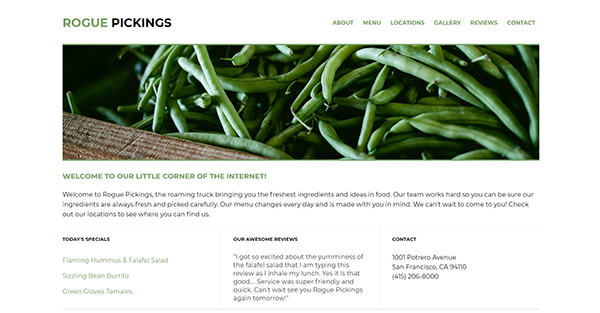
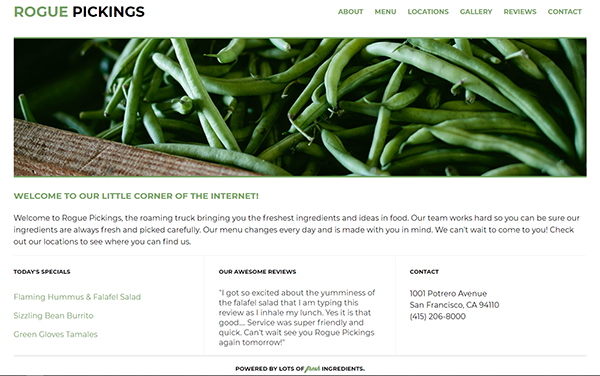
css and index cleaned up

diff --git a/index.html b/index.html
@@ -1,97 +1,102 @@
 <!DOCTYPE html>
-<html>
-<head>
-	<meta charset="UTF-8" />
-	<link rel="stylesheet" type="text/css" href="css/main.css">
-	<link rel="stylesheet" type=text/css href="css/normalize.css">
-<link href="https://fonts.googleapis.com/css?family=Barlow|Mallanna|Roboto+Slab&display=swap" rel="stylesheet"><!-- font-family: 'Barlow', sans-serif;
-font-family: 'Roboto Slab', serif;
-font-family: 'Mallanna', sans-serif; -->
-	<title>Melanie Grigger | Portfolio</title>
-</head>
+<html lang="en">
+    <head>
+	   <meta charset="UTF-8" />
+	   <link rel="stylesheet" type="text/css" href="css/main.css">
+	   <link rel="stylesheet" type=text/css href="css/normalize.css">
+     <link href="https://fonts.googleapis.com/css?family=Roboto+Slab:400,700&display=swap" rel="stylesheet">
+     <link href="https://fonts.googleapis.com/css?family=Lato:300,400,700&display=swap" rel="stylesheet">
+	   <title>Melanie Grigger | Portfolio</title>
+    </head>
 <body>
 <!-- intro -->
- <div class="full-width">
-  <div class="hero-image">
-    <img src="img/hero-image.png">
-      <div class="hero-text">Hi There! I'm Melanie Grigger.
-      <h2 id="opening"> I am a full stack development student and designer based out of Cleveland, Ohio. When I'm not momming or learning I spend my free time...learning. Give me all the knowledge!</h2></div>
+  <header>
+    <div>
+      <div class="full-width">
+      <h1>Hi There! I'm Melanie Grigger.</h1>
+        <h2> I am a full stack development student and designer based out of Cleveland, Ohio. When I'm not momming or learning I spend my free time...learning. Give me all the knowledge!</h2>
+      </div>
     </div>
-  </div>
-
+  </header>
 <!-- Portfolio -->
-<div>
-<h3>My Portfolio</h3>
-</div>
+<main>
+  <section id="portfolio">
 <!-- Jubilee -->
-<section class="full-width">
-	<div class="half-width">
-    <a href="https://github.com/melaniegrigg/jubilee">
-	 <img id="jubileeimg" src="img/jubilee.png" alt="Jubilee website image" />
-	</div>
-	<div class="half-width" id="jubilee">
-		<p>This is my first website project. I completed it in December of 2019 after taking one online course on Skillcrush. It is a mock-up portfolio design that showcases clean and semantic HTML and CSS.</p>
-	 </div>
-</section>
-<!-- Rogue Pickings -->
-<section class="full-width">
-  <div class="half-width">
-    <a href="https://github.com/melaniegrigg/roguepickings">
-    <img id="rogueimg" src="img/rogue-pickings.png" alt="Rogue pickings website image" />
-  </div>
-  <div class="half-width">
-    <p>Rogue Pickings is a mock website that I made for my second-ever website project on Skillcrush. For this lesson, we were given a design comp to pull from. The rest was hand coded from HTML5 and CSS.</p>
-  </div>
-</section>
-<!-- Southcourt -->
-<section class="full-width">
-  <div class="half-width">
-    <img id="southcourtimg" scr="img/southcourt.png" alt="South court website image" />
-  </div>
-  <div class="half-width">
-    <p>My third project is a work in progress website for a local historical neighborhood association. I love being involved in my local community as much as I love writing code and developing beautiful websites.</p>
-  </div>
-</section>
-
-
-<!-- About me -->
-  <section class="full-width">
-    <h3 id="about">About Me</h3>
-    <div class="half-width">
-	   <p>I am a web developer that has a passion for writing clean, semantic code and designing beautiful sites. I have a consistent focus on websites and <strong>User Exerperience</strong> as a symbiotic relationship. Nothing excites me more than an elegant, well designed website with a seamless and intuitive experience that utilizes inclusivity to reach a broad spectrum of users.</p>
-    <div class="half-width">
-      <img id="contact-img" src="img/koenhug.jpg" alt="Melanie Grigger image" />
+    <div class="full-width">
+      <h3>My Portfolio</h3>
+      <div class="half-width">
+        <a href="https://github.com/melaniegrigg/jubilee"> 
+        <img id="jubilee" src="img/jubilee.png" alt="Jubilee website image" /></a>
+      </div>
+      <div class="half-width" id="jubilee">
+        <h3>Jubilee Austin | Portfolio</h3>
+		    <p>This is my first website project. I completed it in December of 2019 after taking one online course on Skillcrush. It is a mock-up portfolio design that showcases clean and semantic HTML and CSS.</p>
+      </div>
     </div>
+<!-- Rogue Pickings -->
+    <div class="full-width">
+      <div class="half-width">
+        <a href="https://github.com/melaniegrigg/roguepickings">
+          <img id="rogue" src="img/rogue-pickings.png" alt="Rogue pickings website image" /></a>
+      </div>
+      <div class="half-width">
+        <h3>Rogue Pickings | Website</h3>
+        <p>Rogue Pickings is a mock website that I made for my second-ever website project on Skillcrush. For this lesson, we were given a design comp to pull from. The rest was hand coded from HTML5 and CSS.</p>
+      </div>
+    </div>
+<!-- Southcourt -->
+    <div class="full-width">
+      <div class="half-width">
+        <img id="southcourt" src="img/southcourt.png" alt="South court website image" />
+      </div>
+      <div class="half-width">
+        <h3>South Court | Website</h3>
+        <p>My third project is a work in progress website for a local historical neighborhood association. I love being involved in my local community as much as I love writing code and developing beautiful websites.</p>
+      </div>
     </div>
   </section>
-
-
+<!-- About me -->
+  <section id="about">
+    <div class="full-width">
+      <h3>About Me</h3>
+      <div class="half-width">
+        <img id="contact-img" src="img/koenhug.jpg" alt="Melanie Grigger image" />
+      </div>
+      <div class="half-width">
+	       <p>I am a web developer that has a passion for writing clean, semantic code and designing beautiful sites.<br>I have a consistent focus on websites and <strong>User Exerperience</strong> as a symbiotic relationship. Nothing excites me more than an elegant, well designed website with a seamless and intuitive experience that utilizes inclusivity to reach a broad spectrum of users.</br></p>
+      </div>
+    </div>
+  </section>
 <!-- contact -->
     <footer id="contact">
       <div class="full-width">
-          <h2>Let's Connect!</h2>
-          <div class="third-width">
-            <h3 id="hireme">Hire Me</h3>
-            <h3>330.441.2636</h3>
-            <a href="mailto:Melanie.Grigger@gmail.com">Feelance Web Dev [@] Melanie.Grigger@gmail.com</a>
-            <h3 id="followme">Follow Me</h3>
-           <a href="https://github.com/" target="_blank">
-                <img src="img/github.png" alt="Github" />
-              </a>
+        <h2>Let's Connect!</h2>
+        <div class="third-width">
+          <h3 id="email-header">Hire Me<br>330.441.2636</br><br>OR</br></h3>
+          <a href="mailto:Melanie.Grigger@gmail.com">Hey There [@] Melanie.Grigger@gmail.com</a>
+        </div>
+        <div class="third-width">
+          <h3 id="socialmedia-header">Follow Me</h3>
+            <a href="https://github.com/melaniegrigg" target="_blank">
+            <img src="img/github.png" alt="Github" />
+            </a>
             <a href="https://www.instagram.com/melaniegriggerwebdev/" target="_blank">
-                <img src="img/instagram.png" alt="Instagram" />
-              </a>
+            <img src="img/instagram.png" alt="Instagram" />
+            </a>
             <a href="https://twitter.com/MelanieGrigger" target="_blank">
-                <img src="img/twitter.png" alt="Twitter" />
-              </a>
-              </a>
+            <img src="img/twitter.png" alt="Twitter" />
+            </a>
             <a href="https://www.linkedin.com/in/melanie-grigger-7a506a178/" target="_blank">
-                <img src="img/linkedin.png" alt="Linked-In" />
-          <div class="third-width">
-            <h3>Meet Me</h3>
-            <h3>Let's go to meetups in Cleveland, Ohio</h3>
+            <img src="img/linkedin.png" alt="Linked-In" />
+            </a>
           </div>
-         </div>
-        </footer> 
+        <div class="third-width">
+          <h3>Meet Me</h3>
+          <p>If you're in the Greater Cleveland agea and want to meet, checkout the Akron Women Code or Cleveland hackers meetups!</p>
+        </div>
+        <h5>Copyright 2020 | Melanie Grigger</h5>
+      </div>
+    </footer>
+  </main> 
 </body>
 </html>

diff --git a/css/main.css b/css/main.css
@@ -1,63 +1,159 @@
 /*****BASE STYLES****/
 
 body {
-    background: #ffffff;
-    height: 1450px;
-    width: 100%;
+    background-color: #ffffff;
     font-family: 'Roboto Slab', serif;
-    color: #087e8b;
-    margin: 200px;
-    padding:30px;
     }
 
-/*****HEADER*****/
 
-.hero-image {
-    height: 800px;
-    width: 1400px;
-    background: url('../img/hero-image.png');
-    background-position: center;
-    background-size: cover;
-}
+/*****GRID*****/
 
-.hero-text {
-  text-align: center;
-  font-size: 50pt;
-  position: absolute;
-  top: 50%;
-  left: 50%;
-  transform: translate(-50%, -50%);
-  color: #bdbf09;
-}
-
-#opening {
-    text-align: center;
-    font-size: 28pt;
-    position: absolute;
-    color: #095156;
-}
-
-h3 {
-    font-size: 38pt;
-}
-
-p {
-    font-size: 28pt;
-}
-
-#contact {
-    font-size: 28px;
+.full-width {
+    width: 1200px;
+    margin: 0 auto;
+    overflow: auto;
 }
 
 .half-width {
-    width: 50%;
-    border: 1pt solid;
+    width: 600px;
+    border: 10px;
+    float: left;
 }
 
-.full-width {
-    width: 100%;
+.third-width {
+    width: 400px;
+    float: left;
+}
+
+/*****HEADER*****/
+
+header {
+    height: 800px;
+    background: url('../img/hero.png');
+    background-size: cover;
+    text-align: center;
+}
+
+header h1{
+    font-family: 'Roboto Slab', serif;
+    font-size: 48px;
+    color: #bdbf09;
+    text-align: center;
+    padding-top: 330px;
+}
+
+header h2{
+    width: 1000px;
+    clear: both;
+    font-family: 'Roboto Slab', serif;
+    font-size: 28px;
+    color: #095156;
+    text-align: center;
+    padding-left: 90px;
+}
+
+/*****PORTFOLIO******/
+
+#portfolio .full-width {
+    padding: 60px;
+    overflow: auto;
+}
+
+}
+#portfolio h2 {
+    font-family: 'Roboto Slab', serif;
+    font-size: 38px;
+    text-align: center;
+    color: #095156;
+}
+
+#portfolio h3 {
+    font-family: 'Roboto Slab', serif;
+    font-size: 30px;
+    text-align: center;
+    color: #095156;
+    padding-bottom: 30px;
+}
+
+#portfolio p {
+    font-family: 'Roboto Slab', serif;
+    font-size: 20px;
+    color: #087e8b;
+    padding: 10px;
 }
 
 #jubilee {
+    border: 20px;
+    border-color: #ffffff;
+}
+
+/*****ABOUT*****/
+
+#about .full-width {
+    background-color: #087e8b;
+    width: 1200px;
+    background: cover;
+    overflow: auto;
+}
+
+#about h3 {
+    font-family: 'Lato', sans-serif;;
+    font-size: 35px;
+    color: #ffffff;
+    text-align: center;
+    margin-bottom: 20px;
+}
+
+#about p {
+    font-family: 'Lato', sans-serif;;
+    font-size: 22px;
+    color: #ffffff;
+    font-weight: 300;
+    padding-left: 20px;
+
+}
+
+/******CONTACT*****/
+
+
+#contact .full-width {
+    background-color: #095156;
+    overflow: auto;
+}
+
+#contact-img {
     float: right;
+    padding-right: 150px;
+    padding-bottom: 20px;
+    margin-top: 20px;
+    margin-bottom: 20px;
+}
+
+#contact p {
+    font-size: 22px;
+    font-style: 'Lato', sans-serif;
+    color: #ffffff;
+    font-weight: 100;
+}
+
+#contact h2 {
+    font-size: 28px;
+    font-style: 'Lato', sans-serif;
+    color: #ffffff;
+    text-align: center;
+}
+
+#contact h3 {
+    font-size: 22px;
+    font-style: 'Lato', sans-serif;
+    color: #ffffff;
+
+}
+
+
+#contact h5 {
+    font-size: 15px;
+    font-style: 'Lato', sans-serif;
+    color: #ffffff;
+    text-align: center;
 }
